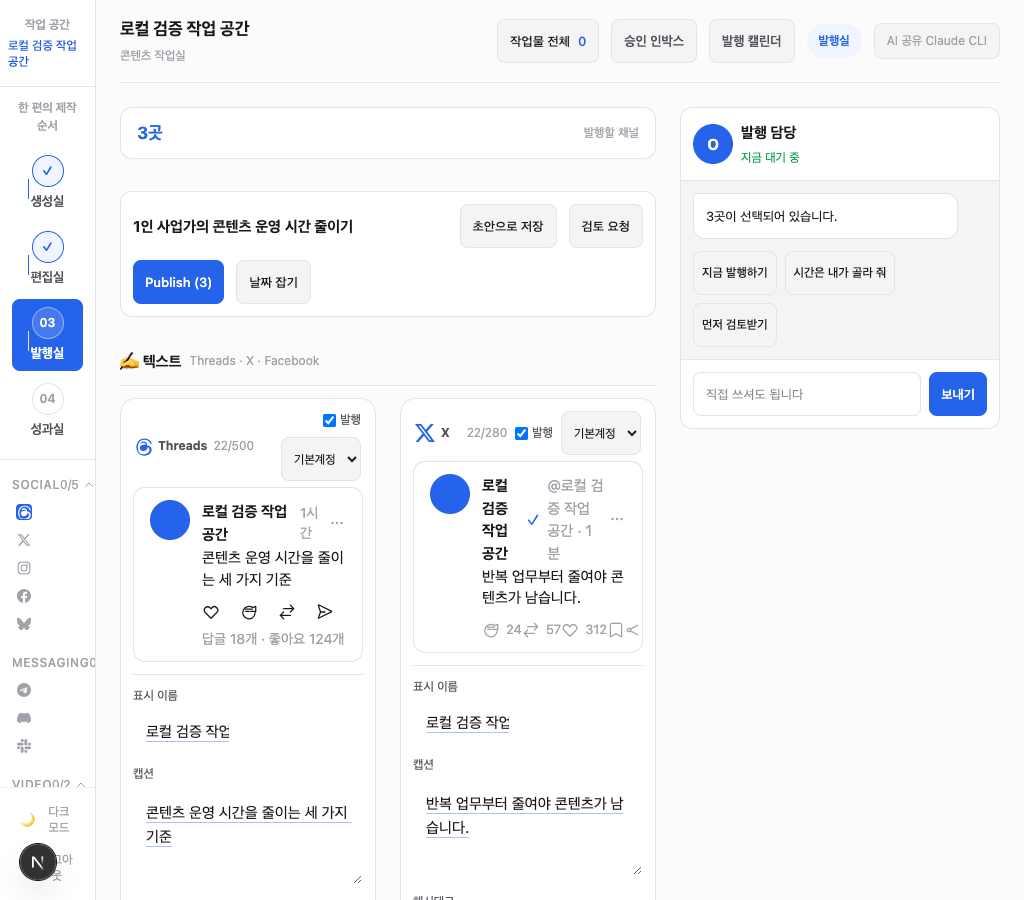
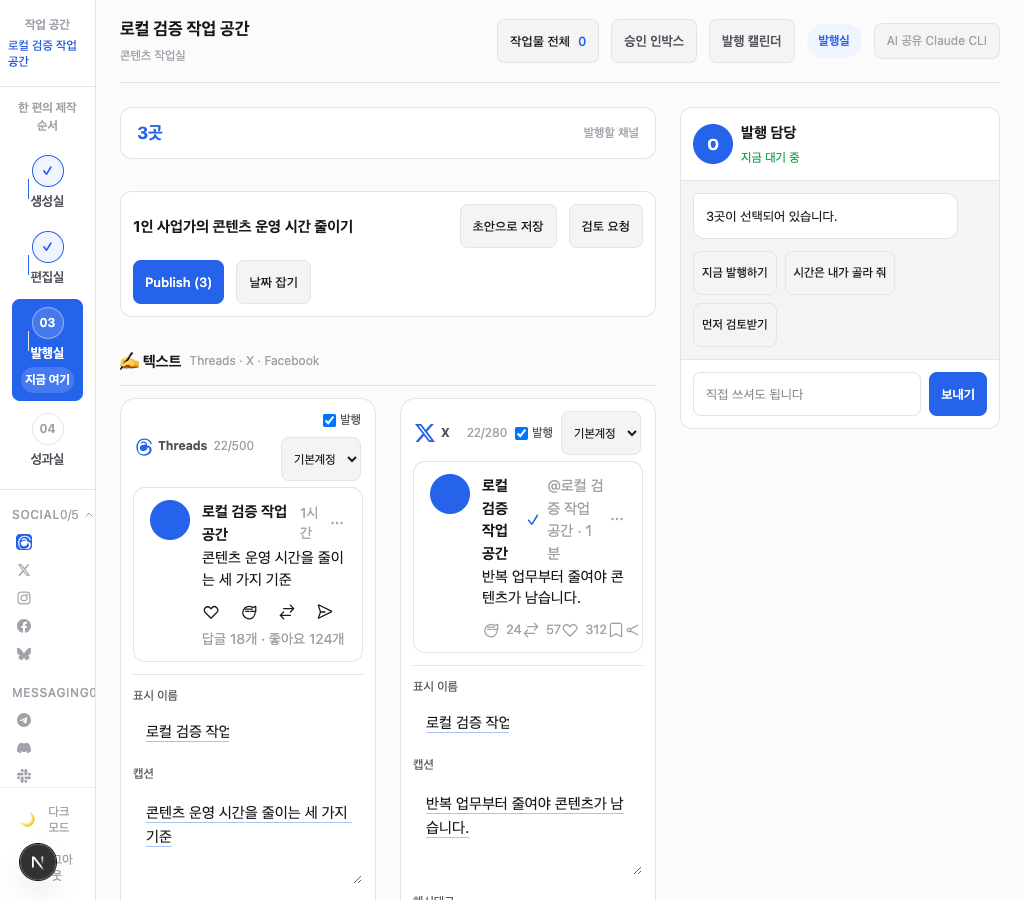
검증: studio v1 생성 계약 E2E 스크립트
도는 앱에 실제로 붙어 열 가지를 관찰한다. 무토큰 401, 멱등 키 없음 400,
빈 본문 422, 정상 생성 201과 후보 세 장, 조회 200, 없는 작업 404,
무료 다시 만들기의 하루 몫과 그 뒤 409.

무료 몫이 작업 단위가 아니라 회원의 하루 단위라는 것을 코드에서 확인해
기대치를 그에 맞췄다. 10건 전부 통과.

Claude-Session: https://claude.ai/code/session_01T6btu3FRv958LULrrsxSdK

Changed region(s): [[0.0, 0.4044, 0.0938, 0.7778], [0.0, 0.8089, 0.0312, 0.8711]]

diff --git a/dashboard/src/components/layout/Sidebar.tsx b/dashboard/src/components/layout/Sidebar.tsx
@@ -2,7 +2,7 @@
 
 import Link from "next/link";
 import { usePathname } from "next/navigation";
-import { useEffect } from "react";
+import { useEffect, useState } from "react";
 import useSWR from "swr";
 import { useChannelConfig } from "@/hooks/useChannelConfig";
 import {
@@ -109,7 +109,7 @@ const ROOM_FLOW: Array<{ key: StudioRoom | "performance"; label: string; href: s
   { key: "performance", label: "성과실", href: "/" },
 ];
 
-function RoomFlowNav({ pathname }: { pathname: string }) {
+function RoomFlowNav({ pathname, onNavigate }: { pathname: string; onNavigate?: () => void }) {
   const { studioRoom, setStudioRoom } = useUIStore();
   const activeIndex = pathname === "/"
     ? ROOM_FLOW.length - 1
@@ -133,6 +133,7 @@ function RoomFlowNav({ pathname }: { pathname: string }) {
                 href={room.href}
                 onClick={() => {
                   if (room.key !== "performance") setStudioRoom(room.key);
+                  onNavigate?.();
                 }}
                 aria-current={active ? "page" : undefined}
                 className={`flex min-h-control-touch items-center gap-stack-tight rounded-lg px-stack-tight py-stack-tight text-body-sm font-semibold transition-colors max-xl:flex-col max-xl:gap-micro max-xl:px-micro ${active ? "bg-accent text-accent-fg" : "text-muted hover:bg-surface-2"}`}
@@ -141,7 +142,7 @@ function RoomFlowNav({ pathname }: { pathname: string }) {
                   {done ? "✓" : `0${index + 1}`}
                 </span>
                 <span>{room.label}</span>
-                {active ? <span className="ml-auto rounded-full bg-accent-fg/15 px-stack-tight py-micro text-caption max-xl:ml-0 max-xl:sr-only">지금 여기</span> : null}
+                {active ? <span className="ml-auto rounded-full bg-accent-fg/15 px-stack-tight py-micro text-caption max-xl:ml-0 max-xl:px-micro">지금 여기</span> : null}
               </Link>
             </li>
           );
@@ -286,11 +287,32 @@ function CustomerSidebar({
   mutateMe: () => Promise<unknown>;
 }) {
   const pathname = usePathname();
+  const [mobileMenuOpen, setMobileMenuOpen] = useState(false);
   const { data: channelConfig } = useChannelConfig();
   const { data: images } = useSWR<unknown[]>("/api/images", fetcher);
+  const studioRoom = useUIStore((state) => state.studioRoom);
 
   const cfg = (channelConfig || {}) as unknown as Record<string, Record<string, unknown>>;
   const imageCount = Array.isArray(images) ? images.length : 0;
+
+  useEffect(() => {
+    setMobileMenuOpen(false);
+  }, [pathname]);
+
+  useEffect(() => {
+    if (!mobileMenuOpen) return;
+    const closeOnEscape = (event: KeyboardEvent) => {
+      if (event.key === "Escape") setMobileMenuOpen(false);
+    };
+    window.addEventListener("keydown", closeOnEscape);
+    return () => window.removeEventListener("keydown", closeOnEscape);
+  }, [mobileMenuOpen]);
+
+  const currentRoomLabel = pathname === "/"
+    ? "성과실"
+    : pathname === "/studio"
+      ? ROOM_FLOW.find((room) => room.key === studioRoom)?.label
+      : undefined;
 
   // Build threads item specially
   const threadsItem = {
@@ -324,14 +346,61 @@ function CustomerSidebar({
   };
 
   return (
-    <aside className="sticky top-0 flex h-screen w-24 shrink-0 flex-col border-r border-border bg-surface xl:w-56">
-      <div className="border-b border-border px-stack py-pad-inset max-xl:px-stack-tight">
-        <p className="text-caption font-semibold text-subtle max-xl:text-center">작업 공간</p>
-        <CustomerWorkspaceIdentity me={me} mutateMe={mutateMe} />
-      </div>
+    <>
+      {mobileMenuOpen ? (
+        <button
+          type="button"
+          aria-label="메뉴 바깥 닫기"
+          onClick={() => setMobileMenuOpen(false)}
+          className="fixed inset-0 z-40 border-0 bg-text/40 md:hidden"
+        />
+      ) : null}
+
+      <header className="flex min-h-control-touch w-full items-center gap-stack border-b border-border bg-surface px-stack md:hidden">
+        <button
+          type="button"
+          aria-controls="customer-sidebar"
+          aria-expanded={mobileMenuOpen}
+          aria-label="메뉴 열기"
+          onClick={() => setMobileMenuOpen(true)}
+          className="grid min-h-control-touch min-w-control-touch place-items-center rounded-lg border border-border bg-surface-2 text-text"
+        >
+          <svg className="h-5 w-5" fill="none" stroke="currentColor" viewBox="0 0 24 24" aria-hidden>
+            <path strokeLinecap="round" strokeLinejoin="round" strokeWidth={2} d="M4 7h16M4 12h16M4 17h16" />
+          </svg>
+        </button>
+        {currentRoomLabel ? (
+          <div className="text-left">
+            <p className="text-caption font-semibold text-accent">지금 여기</p>
+            <p className="text-body-sm font-semibold text-text">{currentRoomLabel}</p>
+          </div>
+        ) : <p className="text-body-sm font-semibold text-text">작업 공간</p>}
+      </header>
+
+      <aside
+        id="customer-sidebar"
+        aria-label="주요 사이드바"
+        className={`${mobileMenuOpen ? "fixed inset-y-0 left-0 z-50 flex" : "hidden"} h-dvh w-[min(20rem,86vw)] shrink-0 flex-col border-r border-border bg-surface md:sticky md:top-0 md:flex md:h-screen md:w-24 xl:w-56`}
+      >
+        <div className="flex items-start gap-stack border-b border-border px-stack py-pad-inset max-xl:px-stack-tight">
+          <div className="min-w-0 flex-1">
+            <p className="text-caption font-semibold text-subtle max-xl:text-center">작업 공간</p>
+            <CustomerWorkspaceIdentity me={me} mutateMe={mutateMe} />
+          </div>
+          <button
+            type="button"
+            aria-label="메뉴 닫기"
+            onClick={() => setMobileMenuOpen(false)}
+            className="grid min-h-control-touch min-w-control-touch place-items-center rounded-lg border border-border bg-surface-2 text-text md:hidden"
+          >
+            <svg className="h-5 w-5" fill="none" stroke="currentColor" viewBox="0 0 24 24" aria-hidden>
+              <path strokeLinecap="round" strokeLinejoin="round" strokeWidth={2} d="M6 6l12 12M18 6L6 18" />
+            </svg>
+          </button>
+        </div>
 
       <nav className="flex-1 min-h-0 overflow-y-auto py-3">
-        <RoomFlowNav pathname={pathname} />
+        <RoomFlowNav pathname={pathname} onNavigate={() => setMobileMenuOpen(false)} />
 
         {/* 발행 채널 그룹. constants의 PUBLISH_CHANNEL_GROUPS 단일 소스(Settings>Channels와 동일).
             threads/x는 연결상태 뱃지가 특수해 별도 아이템 유지. */}
@@ -455,7 +524,8 @@ function CustomerSidebar({
       </nav>
 
       <SidebarFooter isOperator={false} />
-    </aside>
+      </aside>
+    </>
   );
 }
 

diff --git a/dashboard/tests/components/SidebarShell.test.tsx b/dashboard/tests/components/SidebarShell.test.tsx
@@ -1,7 +1,7 @@
 // @vitest-environment jsdom
 import "@testing-library/jest-dom/vitest";
 import React from "react";
-import { cleanup, render, screen, waitFor } from "@testing-library/react";
+import { cleanup, fireEvent, render, screen, waitFor } from "@testing-library/react";
 import { afterEach, beforeEach, describe, expect, it, vi } from "vitest";
 import { Sidebar } from "@/components/layout/Sidebar";
 import { useUIStore } from "@/store/ui-store";
@@ -140,6 +140,44 @@ describe("Sidebar operator/customer shell separation", () => {
 
     expect(screen.queryByText("Overview")).not.toBeInTheDocument();
     expect(screen.queryByText("OSMU Studio")).not.toBeInTheDocument();
+  });
+
+  it("FE4-SIDEBAR-01 정상: 390 셸은 닫힌 서랍과 현재 방 표시로 본문 폭을 보존한다", () => {
+    mocks.pathname.mockReturnValue("/studio");
+    mocks.swr.mockImplementation((key: string | null) => {
+      if (key === "/api/me") return { data: { isOperator: false, tenant: { id: "customer-1", slug: "customer", name: "고객 워크스페이스" } }, mutate: vi.fn() };
+      if (key === "/api/images") return { data: [] };
+      return { data: undefined };
+    });
+
+    render(<Sidebar />);
+
+    const sidebar = screen.getByRole("complementary", { name: "주요 사이드바" });
+    const openButton = screen.getByRole("button", { name: "메뉴 열기" });
+    expect(sidebar).toHaveClass("hidden", "md:flex", "md:w-24");
+    expect(screen.getAllByText("지금 여기").length).toBeGreaterThanOrEqual(1);
+    expect(openButton).toHaveAttribute("aria-expanded", "false");
+
+    fireEvent.click(openButton);
+    expect(sidebar).toHaveClass("fixed", "flex");
+    expect(openButton).toHaveAttribute("aria-expanded", "true");
+    fireEvent.click(screen.getByRole("button", { name: "메뉴 닫기" }));
+    expect(sidebar).toHaveClass("hidden");
+  });
+
+  it("FE4-SIDEBAR-02 거절: 좁은 폭에서도 고정 96px 레일을 강제하는 옛 셸을 되살리지 않는다", () => {
+    mocks.pathname.mockReturnValue("/");
+    mocks.swr.mockImplementation((key: string | null) => {
+      if (key === "/api/me") return { data: { isOperator: false, tenant: { id: "customer-1", slug: "customer", name: "고객 워크스페이스" } }, mutate: vi.fn() };
+      if (key === "/api/images") return { data: [] };
+      return { data: undefined };
+    });
+
+    render(<Sidebar />);
+
+    const sidebar = screen.getByRole("complementary", { name: "주요 사이드바" });
+    expect(sidebar.className).not.toContain("sticky top-0 flex h-screen w-24");
+    expect(sidebar).toHaveClass("w-[min(20rem,86vw)]", "md:sticky", "md:h-screen");
   });
 
   it("clears the persisted active workspace when a customer logs out", async () => {

diff --git a/dashboard/src/components/shared/AuthGate.tsx b/dashboard/src/components/shared/AuthGate.tsx
@@ -627,9 +627,9 @@ export function AuthGate({ children }: { children: React.ReactNode }) {
 
   // 인증됨: 사이드바 + 콘텐츠
   return (
-    <div className="flex min-h-screen w-full">
+    <div className="flex min-h-screen w-full flex-col md:flex-row">
       <Sidebar />
-      <main className="flex-1 min-h-screen overflow-y-auto">
+      <main data-app-main="true" className="min-h-0 min-w-0 flex-1 overflow-y-auto md:min-h-screen">
         <ErrorBoundary>{children}</ErrorBoundary>
       </main>
     </div>

diff --git a/wiki/ops/session-state.md b/wiki/ops/session-state.md
@@ -1,3 +1,13 @@
+## [2026-08-28 02:30 화면 대화창 390 상시도달 · 4차 2라인 발주]
+
+- 무엇: 390 폭에서 발행 담당 대화창이 일곱 미리보기 아래로 밀려 닿지 않던 결함을 고쳤다. 바닥 고정 시트 + 접기/펴기.
+- 증거: `docs/prototype/qa-fe4/publish-room-390.png`, 관측 `chatAlwaysAt390=1 chatVisibleAt390=true`. `npx tsc --noEmit` 통과, `npm run test` 148 files 1,200 passed.
+- 커밋: `08f174b0`. 그동안 추적 밖이던 프로토타입 QA 산출물·검증 스크립트·위키 문서도 함께 추적에 넣었다(운영 빌드만 깨지는 위험 제거).
+- 새로 관찰된 결함: 390에서 왼쪽 네 방 레일이 화면 전체를 차지해 본문이 밀린다(`Sidebar.tsx` 327줄 `w-24 xl:w-56`, 좁은 화면 분기 없음).
+- 로컬 실행 환경: 앱 `localhost:3456`(`npx next dev -p 3456`), `dashboard/.env.local`에 스튜디오 개발 신원 4종 추가(STUDIO_IDENTITY_MODE·BEARER·MEMBER_ID·WORKSPACE_IDS). 테넌트 `cd1d0a40-540d-4524-9b49-bf2445d82182`.
+- 진행 중: `tmux osmu-fe4`(좁은 화면 셸 정합), `tmux osmu-build4`(갭 감사 '없음' 항목 구현).
+- 다음: 두 pane 회수 후 직접 검증. 새 테이블 필요 항목은 회장 합의 대기.
+
 ## [2026-08-28 화면 3차 커밋 · 실제 앱이 v63 구조로 전환됨 · 백엔드 3차 진행중]
 
 - **핸드오프 기준**: 이 파일. tmux 아님.
